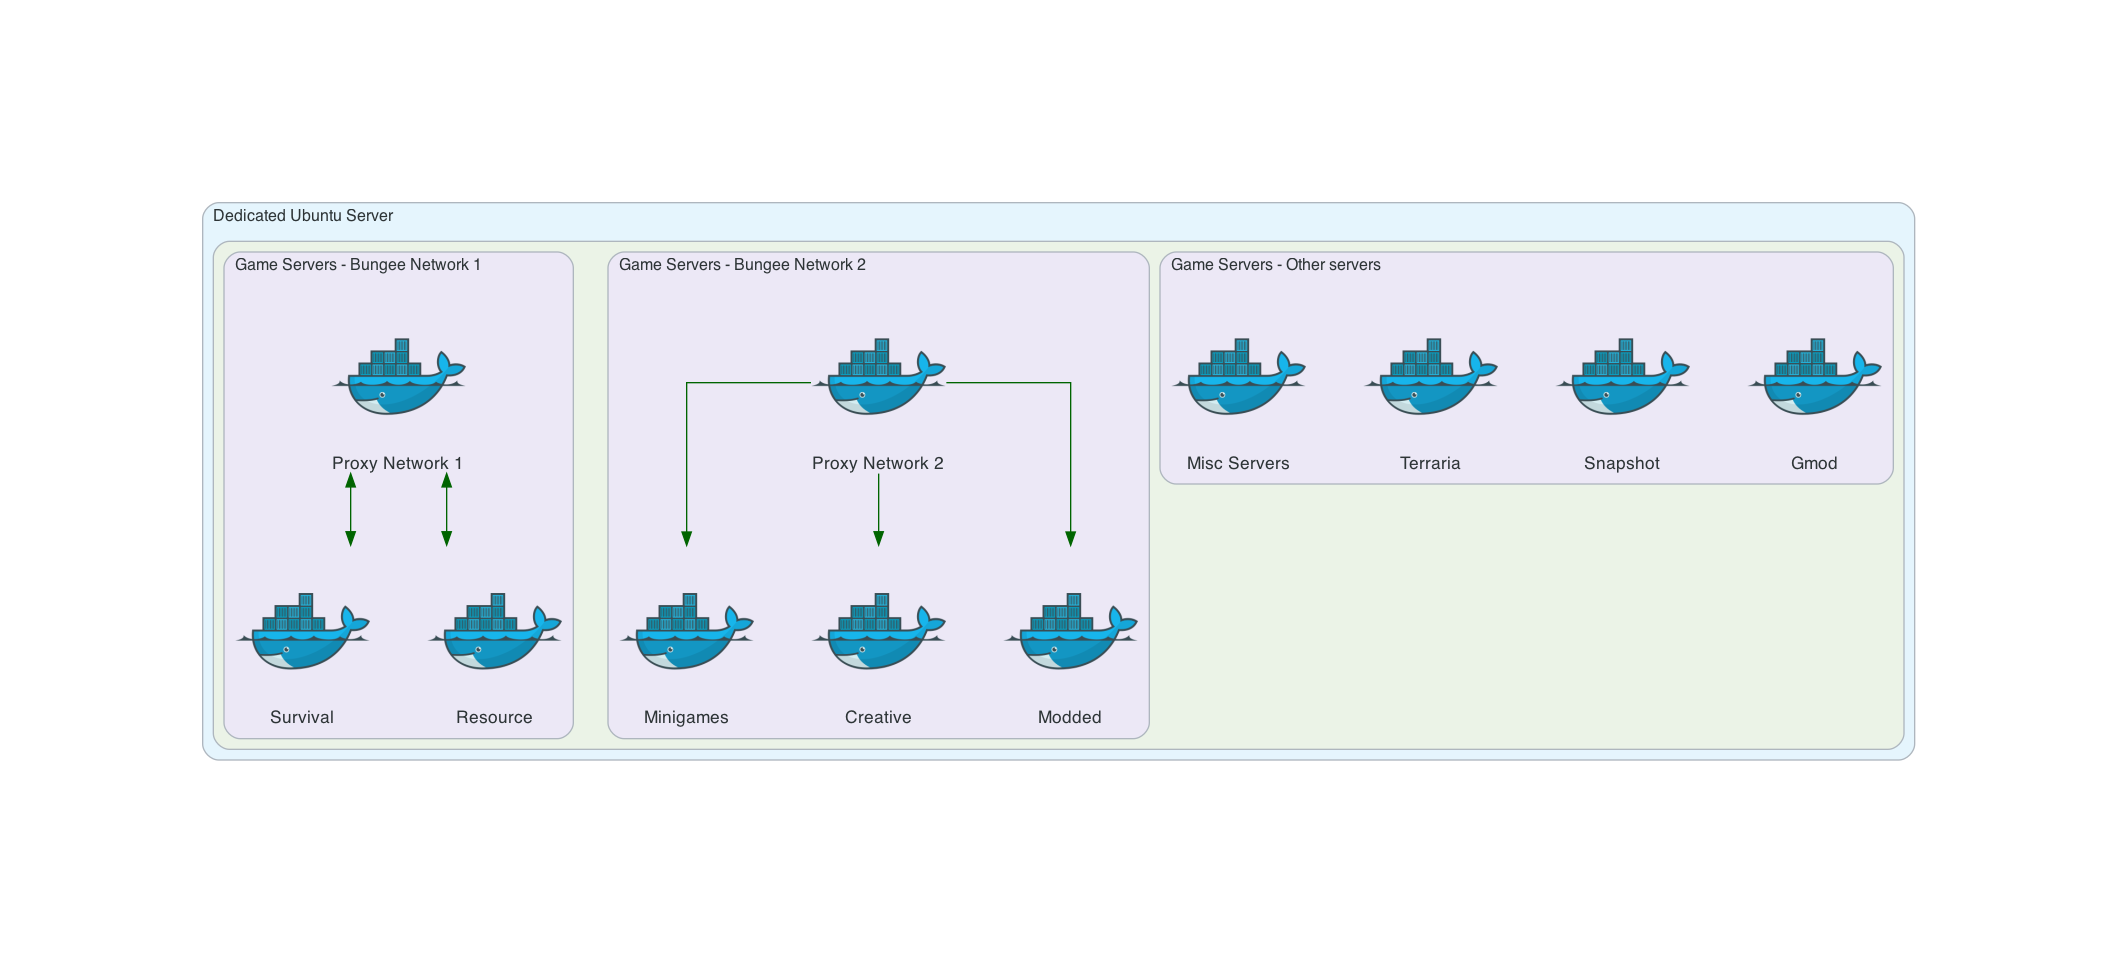
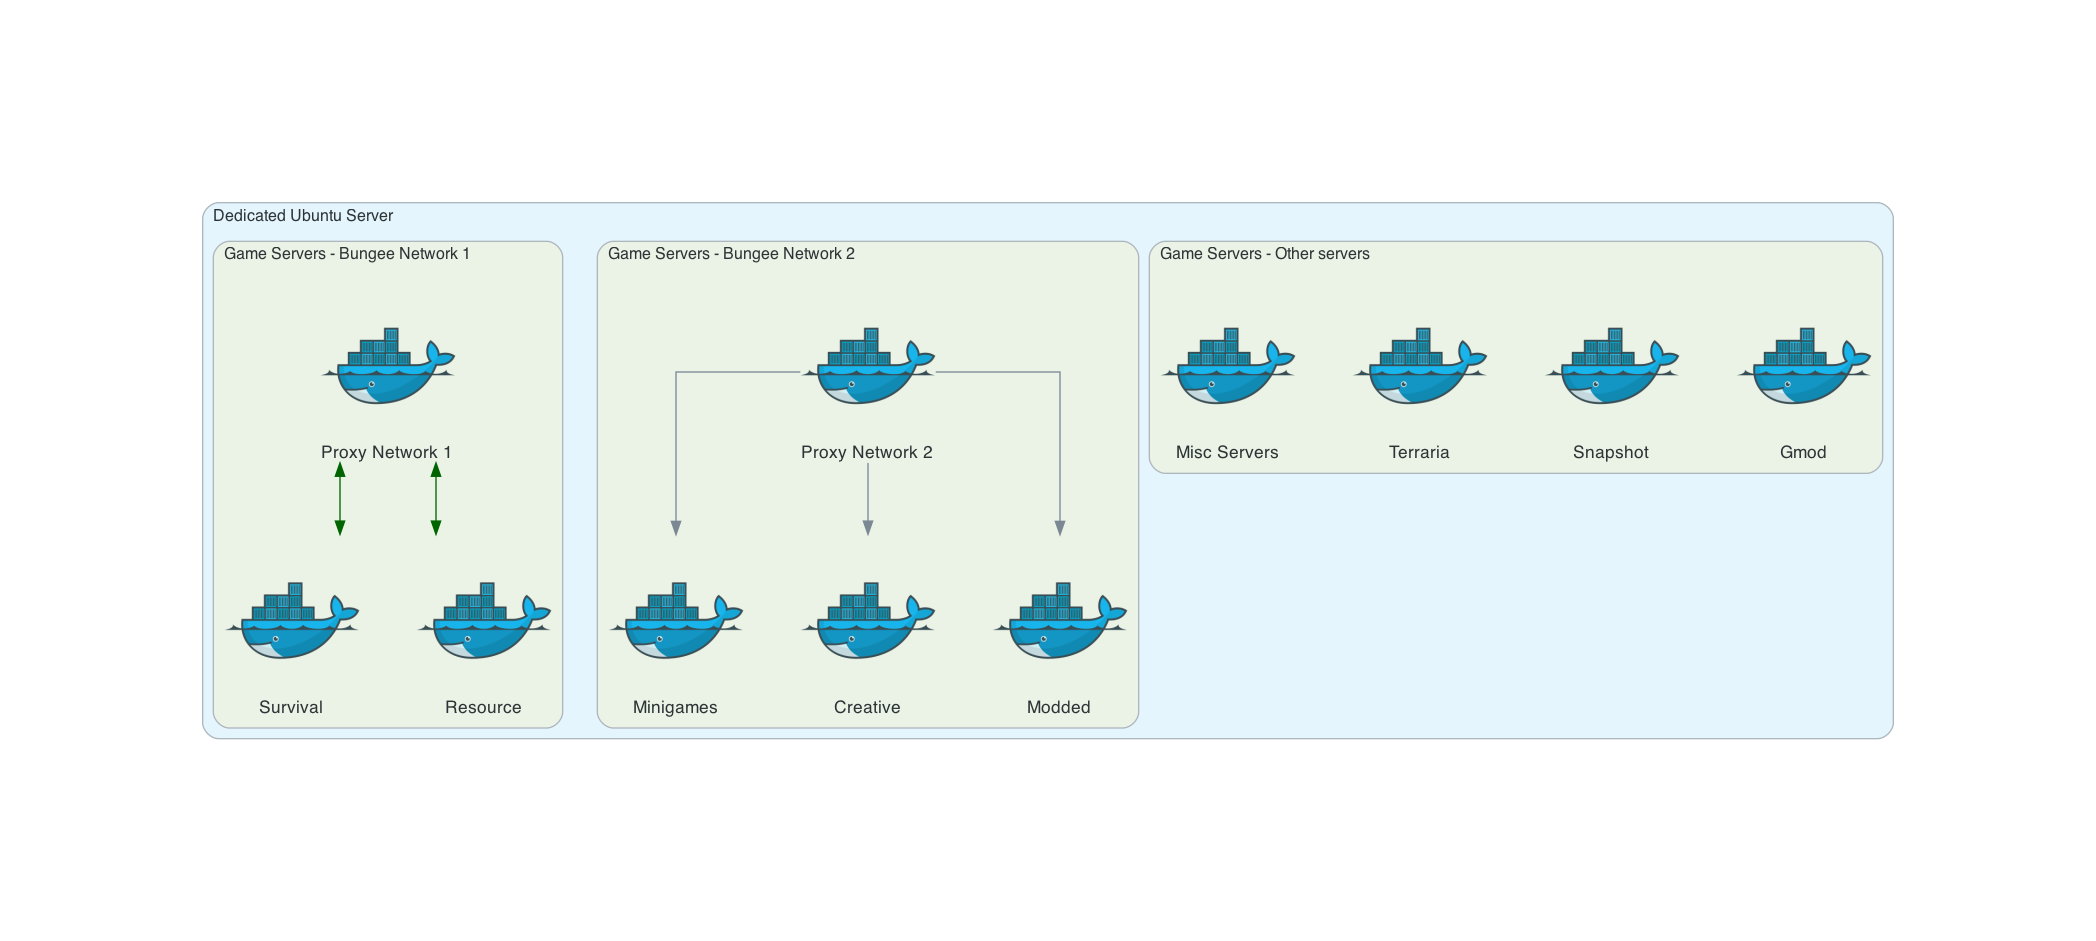
Remove main network blank labels

diff --git a/networks/main_network.py b/networks/main_network.py
@@ -23,60 +23,40 @@ dynmap_url = "https://camarosa.xyz/img/dynmap.png"
 dynmap_icon = "dynmap.png"
 urlretrieve(dynmap_url, dynmap_icon)
 
-with Diagram(filename="main_network", show=True, direction="LR") as diag:
+with Diagram(filename="main_network", show=True, direction="LR"):
 
     applications = Discord("#applications")
-    blankingamechat = Blank("BlankIngameChat")
     ingamechat = Discord("#ingamechat")
 
     with Cluster("Dedicated Ubuntu Server"):
 
-
-
-
         applicationbot = Docker("Application Bot")
 
         dynmap = Custom("Dynmap", dynmap_icon)
-        blankdynmap = Blank("Blank Dynmap") 
+        paddingdynmap = Blank("") 
 
         with Cluster("Bungee Network 1"):
             proxy1 = Docker("Proxy 1")
-            blank1 = Blank("blank1")
+            padding1 = Blank("")
             resource = Docker("Resource")
             survival = Docker("Survival")
-            blank = Blank("blank")
+            padding2 = Blank("")
 
-            proxy1 - blank1
+            proxy1 - Edge(penwidth="0.0") -  padding1
             proxy1 >> Edge(color="darkgreen") << survival
             proxy1 >> Edge(color="darkgreen") << resource
-            proxy1 - blank
+            proxy1 - Edge(penwidth="0.0") -  padding2
 
-
-
-        with Cluster("          MariaDB"):
-            # blank2 = Blank("blank2")    
-            maindb = MariaDB("Main Network Databases")
-            # blank3 = Blank("blank3")
-            # blank4 = Blank("blank4")
-            # proxydb = MariaDB("Proxy Databases")
+        with Cluster("MySQL / MariaDB"):  
+            maindb = MariaDB("MySQL Databases")
             phpmyadmin = Custom("phpMyAdmin", phpmyadmin_icon)
 
-
-    # blank3 = Blank("blank3")
-
-    applications >> applicationbot
+    applications >> Edge(color="#7289DA") >> applicationbot
     applicationbot >> proxy1
 
     survival >> maindb
     resource >> maindb
-    # proxy1 >> proxydb
-    # blank2 - phpmyadmin
-    # proxydb << phpmyadmin
     maindb << phpmyadmin
-    # blank3 - phpmyadmin
-    survival >> ingamechat
-    resource >> blankdynmap
+    survival >> Edge(color="#7289DA") >> ingamechat
+    resource  - Edge(penwidth="0.0") - paddingdynmap
     survival >> dynmap
-    # resource >> blankingamechat
-    # resource - Edge(penwidth="0.0") - blank
-    # resource - Edge(penwidth="0.0") - blank2

diff --git a/game_servers/game_servers_grouped.py b/game_servers/game_servers_grouped.py
@@ -14,24 +14,23 @@ with Diagram(filename="game_servers_grouped", show=True, direction="TB"):
 
     with Cluster("Dedicated Ubuntu Server"):
 
-        with Cluster(""):
-            with Cluster("Game Servers - Other servers"):
-                gmod = Docker("Gmod")
-                snapshot = Docker("Snapshot")
-                terraria = Docker("Terraria")
-                misc = Docker("Misc Servers")
-                nonbungee = [gmod, snapshot, terraria, misc]
+        with Cluster("Game Servers - Other servers"):
+            gmod = Docker("Gmod")
+            snapshot = Docker("Snapshot")
+            terraria = Docker("Terraria")
+            misc = Docker("Misc Servers")
+            nonbungee = [gmod, snapshot, terraria, misc]
 
-            with Cluster("Game Servers - Bungee Network 2"):
-                proxy2 = Docker("Proxy Network 2")
-                creative = Docker("Creative")
-                modded = Docker("Modded")
-                minigames = Docker("Minigames")
-                proxy2 >> Edge(color="darkgreen") >> [minigames, creative, modded]
+        with Cluster("Game Servers - Bungee Network 2"):
+            proxy2 = Docker("Proxy Network 2")
+            creative = Docker("Creative")
+            modded = Docker("Modded")
+            minigames = Docker("Minigames")
+            proxy2 >> [minigames, creative, modded]
 
-            with Cluster("Game Servers - Bungee Network 1"):
-                proxy1 = Docker("Proxy Network 1")
-                survival = Docker("Survival")
-                resource = Docker("Resource")
-                proxy1 >> Edge(color="darkgreen") << survival
-                proxy1 >> Edge(color="darkgreen") << resource
+        with Cluster("Game Servers - Bungee Network 1"):
+            proxy1 = Docker("Proxy Network 1")
+            survival = Docker("Survival")
+            resource = Docker("Resource")
+            proxy1 >> Edge(color="darkgreen") << survival
+            proxy1 >> Edge(color="darkgreen") << resource
